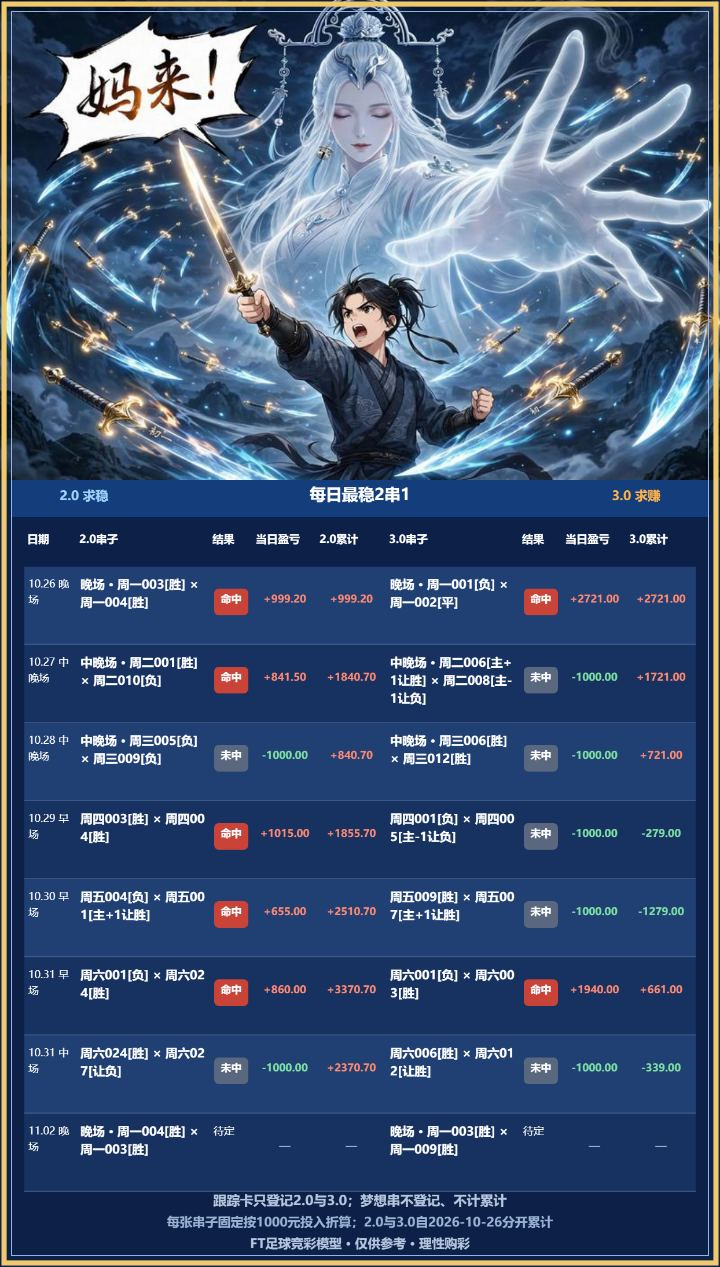
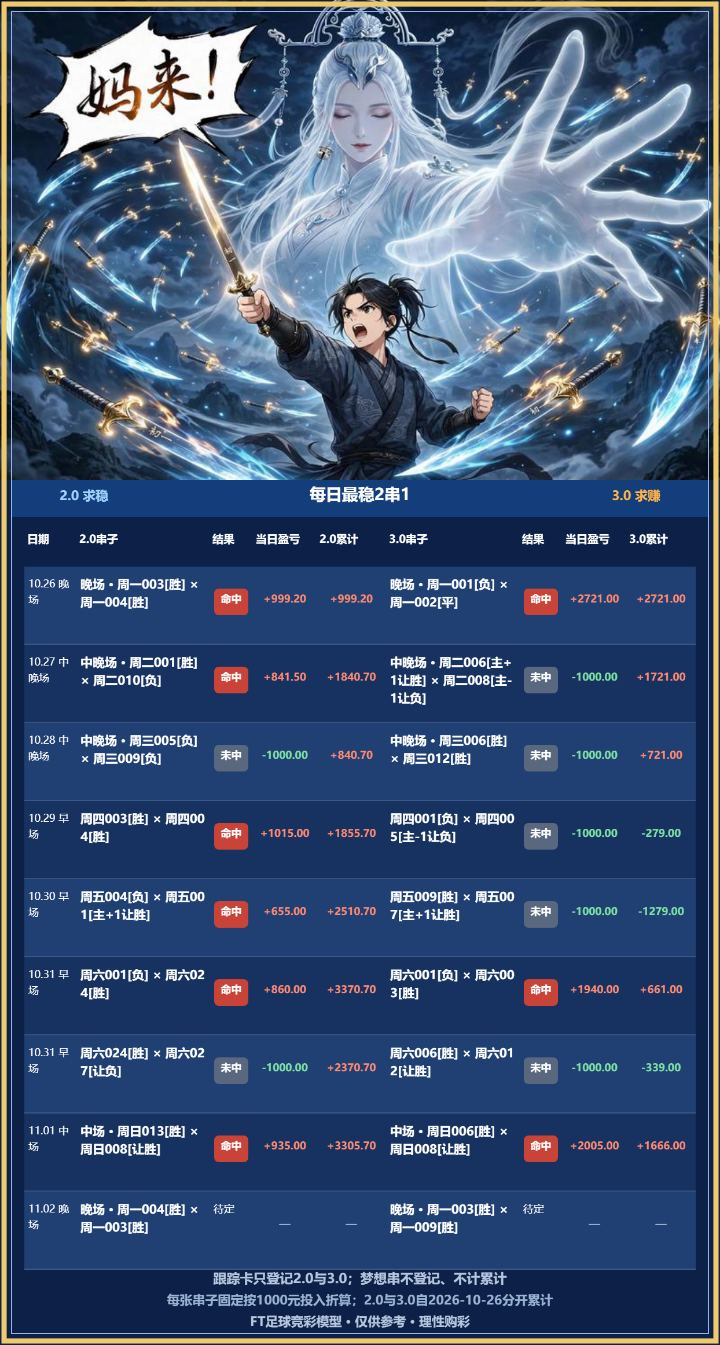
Restore November 1 settlements in current tracking history

diff --git a/public/phone-v2.html b/public/phone-v2.html
@@ -3,7 +3,7 @@
 </style></head><body><main><h1>足球四图</h1><p class="tip">点击绿色按钮，直接复制对应图片。</p><div id="cards"><div id="status">正在加载…</div></div></main><script>
 (async()=>{const cards=document.getElementById('cards'),version='20261102-final-v6';try{const [today,review]=await Promise.all([fetch(`data/latest.json?v=${version}`,{cache:'no-store'}).then(r=>r.json()),fetch(`data/review-latest.json?v=${version}`,{cache:'no-store'}).then(r=>r.json())]);const items=[['推荐扫盘',today.date,`${today.date}-final-scan.png`],['今日跟踪',today.date,`${today.date}-final-tracking.png`],['复盘扫盘',review.date,`${review.date}-review-scan.png`],['复盘跟踪',review.date,`${review.date}-review-tracking.png`]];cards.textContent='';for(const [title,date,file] of items){const box=document.createElement('section');box.className='card';const preview=`cards/${file.replace('.png','-preview.jpg')}?v=${version}`,full=`cards/${file}?v=${version}`;box.innerHTML='<div class="head"><strong></strong><span></span></div><img loading="lazy" decoding="async"><button type="button">点击复制图片</button>';box.querySelector('strong').textContent=title;box.querySelector('span').textContent=date;const img=box.querySelector('img'),button=box.querySelector('button');img.alt=`${date} ${title}`;img.src=preview;button.dataset.copySrc=full;button.onclick=async()=>{const text=button.textContent,url=new URL(button.dataset.copySrc,location.href);url.searchParams.set('copy',String(Date.now()));button.dataset.copyState='copying';button.textContent='正在复制高清图…';button.disabled=true;try{if(!navigator.clipboard?.write||!window.ClipboardItem)throw Error('clipboard-image-unsupported');const pngPromise=fetch(url,{cache:'no-store'}).then(r=>{if(!r.ok)throw Error('image-fetch-failed');return r.blob()}).then(async b=>b.type==='image/png'?b:new Blob([await b.arrayBuffer()],{type:'image/png'}));await navigator.clipboard.write([new ClipboardItem({'image/png':pngPromise})]);button.dataset.copyState='success';button.textContent='✓ 已复制高清图'}catch(e){button.dataset.copyState='failed';button.textContent='复制失败，请检查浏览器图片权限';button.title=e?.message||'copy failed'}setTimeout(()=>{button.disabled=false;button.textContent=text},3000)};cards.append(box)}}catch{document.getElementById('status').textContent='加载失败，请刷新';}})();
 </script><script>
-const refreshImages=()=>document.querySelectorAll('img:not([data-fresh])').forEach(img=>{img.dataset.fresh='1';const url=new URL(img.src);url.searchParams.set('v','20261102-final-v6');img.src=url});
+const refreshImages=()=>document.querySelectorAll('img:not([data-fresh])').forEach(img=>{img.dataset.fresh='1';const url=new URL(img.src);url.searchParams.set('v','20261102-history-fix');img.src=url});
 new MutationObserver(refreshImages).observe(document.getElementById('cards'),{childList:true,subtree:true});refreshImages();
 </script></body></html>
 
